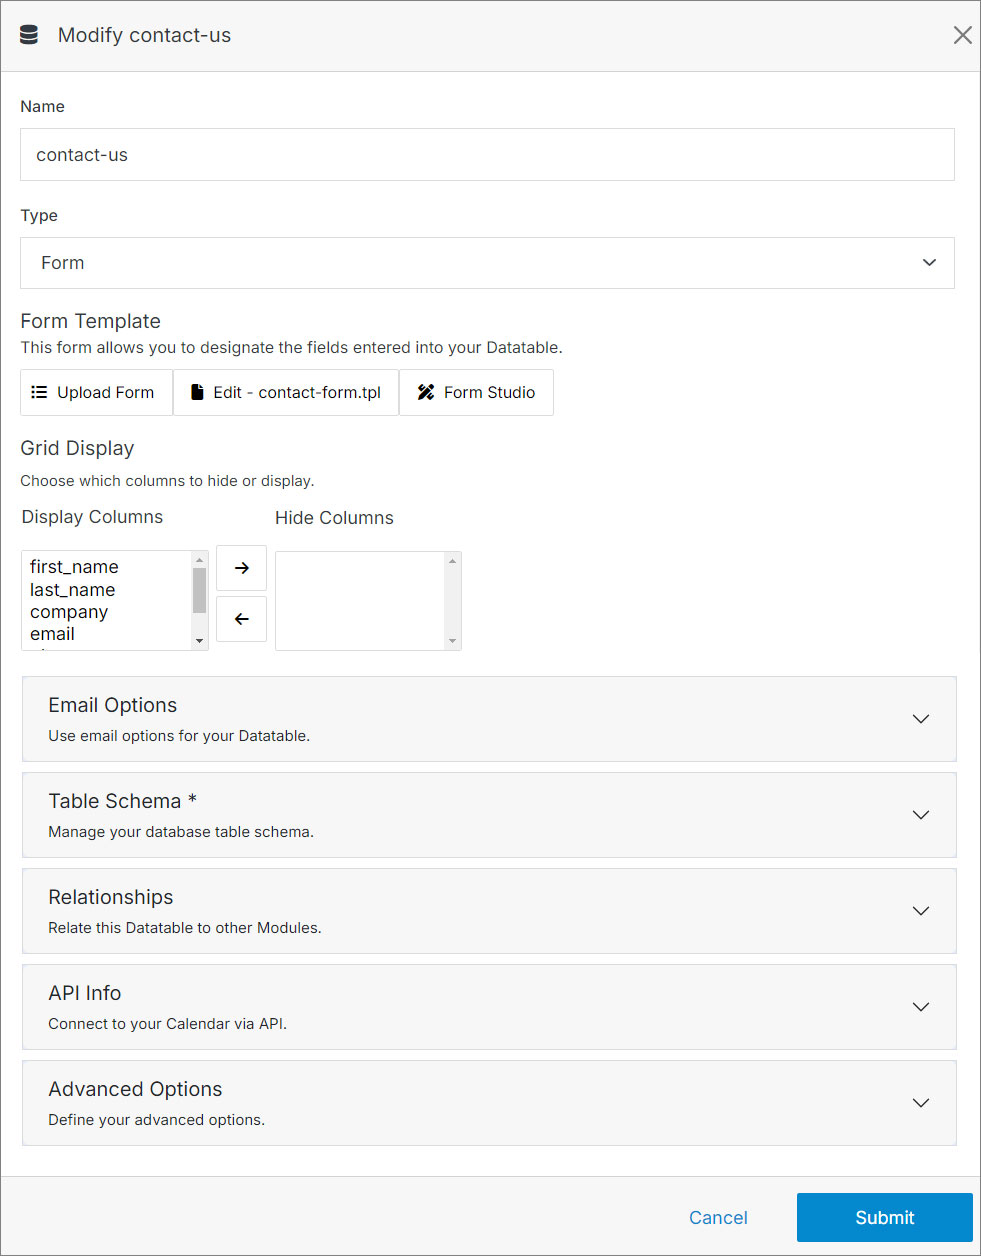
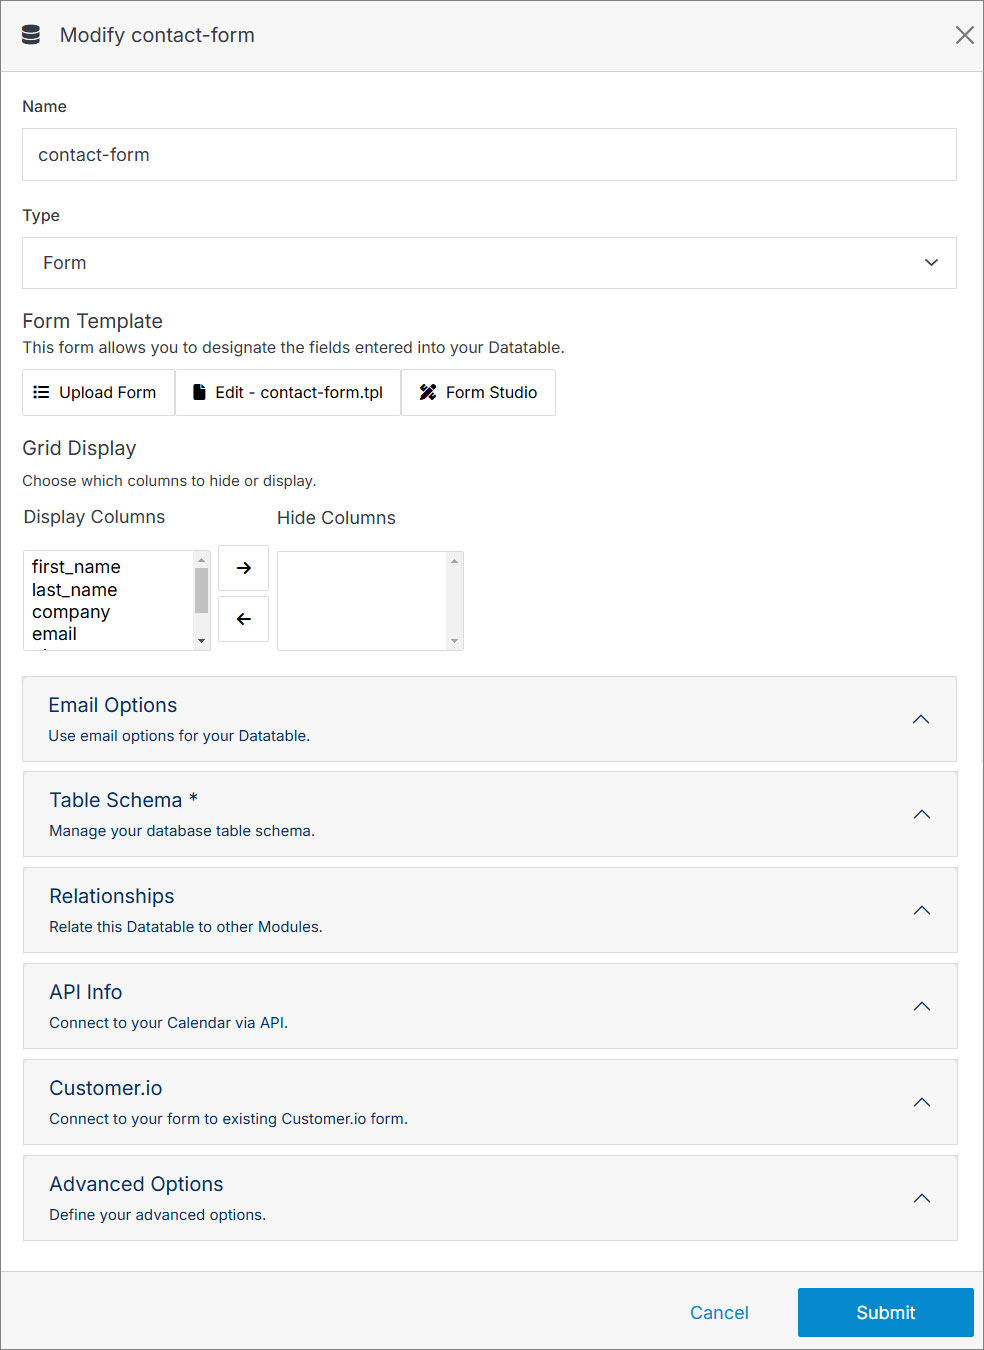
Add customer.io section to forms.

diff --git a/src/Workspace/Forms/Form/Modify/customer.io/index.md b/src/Workspace/Forms/Form/Modify/customer.io/index.md
@@ -1,0 +1,44 @@
+Integrating **Customer.io** with your forms is a powerful way to streamline customer engagement and automate communication. By connecting your forms to Customer.io, you can seamlessly capture user data and trigger personalized emails, SMS, or other interactions based on their behavior. This integration helps you enhance user experiences, nurture leads, and drive conversions without extra manual effort.
+
+## Prerequisites
+
+- Have a [Solodev form](/workspace/forms/form/).
+- Preexisting [Customer.io account](https://fly.customer.io/signup).
+
+## Integrate Customer.io with CMS
+
+To integrate with Customer.io, you'll need your **Site ID**, **Track API Key**, and **App API Key**. These credentials can be found in your Account Settings > [API Credentials](https://fly.customer.io/settings/api_credentials).
+
+1. On your main navigation, under **Admin**, click on **Settings**.
+
+<p><img src="/static/images/workspace/form/settings-main-nav.jpg" alt="Main navigation with Settings link highlighted" style="width: 10%;"></p>
+
+2. On the left navigation, click on **Config**.
+
+<p><img src="/static/images/workspace/form/config-nav.jpg" alt="Settings navigation with Config link highlighted" style="width: 10%;"></p>
+
+3. Navigate to the Customer.io accordion.
+
+<p><img src="/static/images/workspace/form/cio-config-accordion.jpg" alt="Customer.io Accordion" style="width: 40%;"></p>
+
+4. Add the Site ID, Track API Key, and App API Key.
+
+<p><img src="/static/images/workspace/form/cio-credentials.jpg" alt="Customer.io Credentials" style="width: 80%;"></p>
+
+5. Click <span class="text-blue">**Submit**</span>.
+
+## Config Form (Optional)
+
+This step is only needed if you already have a configured customer.io custom form. Otherwise, a custom form will be created on Customer.io on the first submit.
+
+1. From the main menu, go to **Forms**.
+
+2. Click on the form you want to configure.
+
+3. On the Action Bar, click on **Modify**.
+
+4. Navigate to the Customer.io accordion.
+
+5. Enter the Customer.io **Form ID**. This ID is located on Customer.io under Details.
+
+6. Click <span class="text-blue">**Submit**</span>.

diff --git a/src/Workspace/Forms/Form/Modify/index.md b/src/Workspace/Forms/Form/Modify/index.md
@@ -1,6 +1,6 @@
 # Modify 
 
-Customize your form's name, type, and styles, including the displayed fields. You can also update [email options](/workspace/forms/form/modify/email/), [table schema](/workspace/forms/form/modify/#table-schema), [relationships](/workspace/forms/form/modify/#relationships), [API details](/workspace/forms/form/modify/#api-info), and other [advanced settings](/workspace/forms/form/modify/advanced/).
+Customize your form's name, type, and styles, including the displayed fields. You can also update [email options](/workspace/forms/form/modify/email/), [table schema](/workspace/forms/form/modify/#table-schema), [relationships](/workspace/forms/form/modify/#relationships), [API details](/workspace/forms/form/modify/#api-info), [customer.io setup](/workspace/forms/form/modify/customer.io) and other [advanced settings](/workspace/forms/form/modify/advanced/).
 
 <p><img src="/static/images/workspace/form/modify-form.jpg" alt="Modify Form" style="width: 50%;"></p>
 
